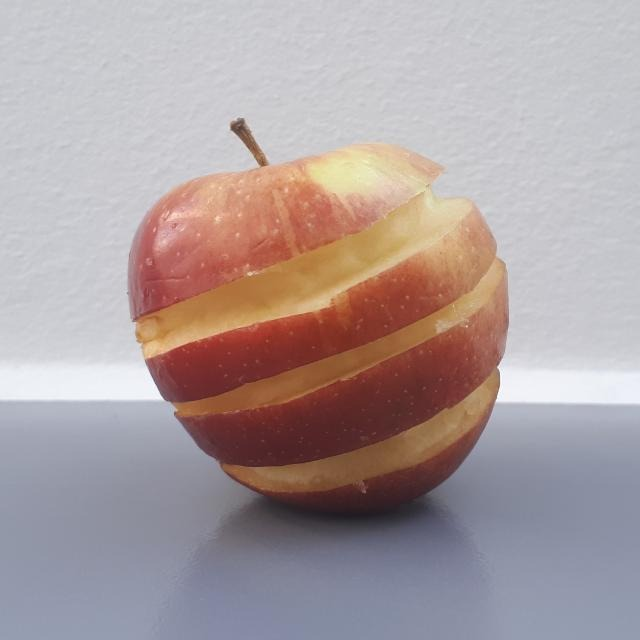
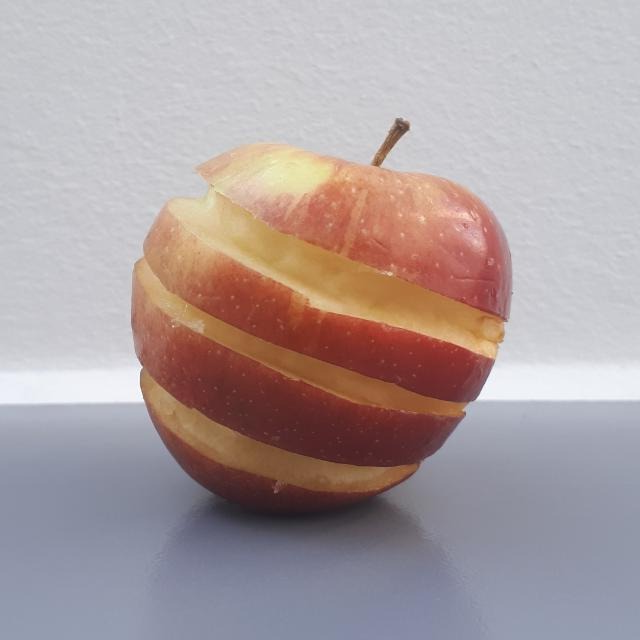
Apfel gespiegelt

Changed region(s): [[0.0, 0.1875, 1.0, 0.875]]

diff --git a/README.md b/README.md
@@ -1,3 +1,3 @@
 # Fundament Mathematik
 
-6 aspirierende Studenten der Technischen Universität Wien teilen, im Rahmen des Baechelor Studiums "Technische Mathematik", dieses Repository.
+6 aspirierende Studenten der Technischen Universität Wien teilen dieses Repository im Rahmen des Bachelorstudiums "Technische Mathematik".
